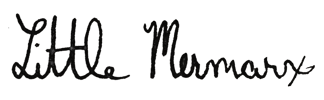
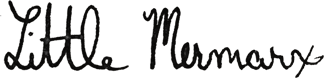
Get the front page headed towards decency

Changed region(s): [[0.0, 0.0, 0.4012, 0.9231], [0.4321, 0.0769, 1.0, 0.9231], [0.8951, 0.9231, 0.9259, 1.0]]

diff --git a/content/themes/existential/style.css b/content/themes/existential/style.css
@@ -1,3 +1,4 @@
+@import url('https://fonts.googleapis.com/css?family=Bitter');
 /*! normalize.css v2.1.3 | MIT License | git.io/normalize */
 /* ==========================================================================
    HTML5 display definitions
@@ -338,37 +339,27 @@ table {
   border-collapse: collapse;
   border-spacing: 0;
 }
+html,
+body {
+  font-family: 'Bitter', serif;
+}
+a {
+  text-decoration: none;
+  color: #bf3524;
+}
 header.main {
   background-color: #f5f2ee;
   border-bottom: 2px solid #ffc70e;
-}
-header.main .container {
-  max-width: 1024px;
-  margin: 0 auto;
-  display: inline-block;
-  /* start commented backslash hack \*/
-  display: block;
-  /* close commented backslash hack */
-}
-header.main .container:after {
-  visibility: hidden;
-  display: block;
-  font-size: 0;
-  content: " ";
-  clear: both;
-  height: 0;
-}
-* html header.main .container {
-  height: 1%;
+  display: flex;
+  align-items: flex-end;
+  padding: 24px;
 }
 header.main h1 {
-  display: block;
-  float: left;
   width: 324px;
-  height: 100px;
+  height: 78px;
+  margin: 0;
   overflow: hidden;
   text-indent: -999px;
-  margin: 0;
   background-image: url(./assets/littleMermarxScript.png);
   background-repeat: no-repeat;
 }
@@ -376,19 +367,45 @@ header.main h1 {
   header.main h1 {
     /* on retina, use image that's scaled by 2 */
     background-image: url(./assets/littleMermarxScript@2x.png);
-    background-size: 324px 100px;
+    background-size: 324px 78px;
   }
 }
 header.main nav {
+  flex: 1;
   text-align: right;
 }
 header.main nav a {
   display: inline-block;
+  color: #bf3524;
   text-decoration: none;
-  padding-top: 60px;
-  padding-right: 18px;
+  padding-left: 24px;
+  padding-top: 40px;
+  padding-bottom: 7px;
 }
-.home article {
-  padding: 24px;
+header.main nav a:before {
+  content: ' ';
+  display: block;
+  position: absolute;
+  width: 100%;
+  height: 4px;
+  background-color: transparent;
+  bottom: 0;
+}
+header.main nav a:hover:before {
+  background-color: #bf3524;
+}
+.home article .post-title {
+  text-align: center;
+}
+.home article .image-container {
+  display: flex;
+  padding-right: 24px;
+}
+.home article .image-container figure {
+  flex: 1;
+  padding-bottom: 30%;
+  margin-left: 24px;
+  background-size: cover;
+  background-position: center;
 }
 /*# sourceMappingURL=style.css.map */

diff --git a/src/less/header.less b/src/less/header.less
@@ -1,30 +1,40 @@
 header.main {
     background-color: @brand-light;
     border-bottom: 2px solid @brand-gold;
-    .container {
-        max-width: 1024px;
-        margin: 0 auto;
-        .clearfix();
-    }
+    display: flex;
+    align-items: flex-end;
+    padding: 24px;
 	h1 {
-        display: block;
-        float: left;
         width: 324px;
-        height: 100px;
+        height: 78px;
+        margin: 0;
         overflow: hidden;
         text-indent: -999px;
-        margin: 0;
-		.image-2x('./assets/littleMermarxScript.png', 324px, 100px);
+		.image-2x('./assets/littleMermarxScript.png', 324px, 78px);
 	}
     nav {
+        flex: 1;
         text-align: right;
         a {
             display: inline-block;
+            color: @brand-red;
             text-decoration: none;
-            padding-top: 60px;
-            padding-right: 18px;
+            padding-left: 24px;
+            padding-top: 40px;
+            padding-bottom: 7px;
+            &:before {
+                content: ' ';
+                display: block;
+                position: absolute;
+                width: 100%;
+                height: 4px;
+                background-color: transparent;
+                bottom: 0;
+            }
+        }
+        a:hover:before {
+            background-color: @brand-red;
         }
     }
 }
-
 

diff --git a/src/less/front-page.less b/src/less/front-page.less
@@ -2,7 +2,20 @@
 
 .home {
     article {
-        padding: 24px;
+        .post-title {
+            text-align: center;
+        }
+        .image-container {
+            display: flex;
+            padding-right: 24px;
+            figure {
+                flex: 1;
+                padding-bottom: 30%;
+                margin-left: 24px;
+                background-size: cover;
+                background-position: center;
+            }
+        }
     }
 }
 

diff --git a/src/less/typography.less b/src/less/typography.less
@@ -1,0 +1,13 @@
+// set the general / global typographic styles
+
+@import url('https://fonts.googleapis.com/css?family=Bitter');
+
+html, body {
+    font-family: 'Bitter', serif;
+}
+
+a {
+    text-decoration: none;
+    color: @brand-red;
+}
+

diff --git a/src/less/main.less b/src/less/main.less
@@ -1,6 +1,7 @@
 @import 'normalize';
 @import 'mixins';
 @import 'colors';
+@import 'typography';
 
 @import 'header';
 

diff --git a/content/themes/existential/front-page.php b/content/themes/existential/front-page.php
@@ -7,14 +7,23 @@
 <?php if (have_posts()): while (have_posts()) : the_post(); ?>
     <article id="post-<?php the_ID(); ?>" <?php post_class('post-snippet'); ?>>
         <h3 class="post-title">
-            <div class="container">
-                <a class="title" href="<?php the_permalink(); ?>" title="<?php the_title(); ?>"><?php the_title(); ?></a>
-                <div class="info"><?php the_first_category_link(); ?><time><?php the_time('M j, Y'); ?></time></div>
-            </div>
+            <a class="title" href="<?php the_permalink(); ?>" title="<?php the_title(); ?>"><?php the_title(); ?></a>
+            <div class="info"><?php the_first_category_link(); ?><time><?php the_time('M j, Y'); ?></time></div>
         </h3>
         <div class="image-container">
-            <?php the_post_image_collage(); ?>
-            <?php edit_post_link(); ?>
+            <?php
+                $media = get_attached_media( 'image', get_the_ID() );
+                $counter = 0;
+                foreach($media as $image) {
+                    if ($counter >= 3) {
+                        break;
+                    }
+                    echo '<figure style="background-image:url(';
+                    echo $image->guid;
+                    echo ')"></figure>';
+                    $counter++;
+                }
+            ?>
         </div>
     </article>
 <?php endwhile; ?>

diff --git a/src/front-page.php b/src/front-page.php
@@ -7,14 +7,23 @@
 <?php if (have_posts()): while (have_posts()) : the_post(); ?>
     <article id="post-<?php the_ID(); ?>" <?php post_class('post-snippet'); ?>>
         <h3 class="post-title">
-            <div class="container">
-                <a class="title" href="<?php the_permalink(); ?>" title="<?php the_title(); ?>"><?php the_title(); ?></a>
-                <div class="info"><?php the_first_category_link(); ?><time><?php the_time('M j, Y'); ?></time></div>
-            </div>
+            <a class="title" href="<?php the_permalink(); ?>" title="<?php the_title(); ?>"><?php the_title(); ?></a>
+            <div class="info"><?php the_first_category_link(); ?><time><?php the_time('M j, Y'); ?></time></div>
         </h3>
         <div class="image-container">
-            <?php the_post_image_collage(); ?>
-            <?php edit_post_link(); ?>
+            <?php
+                $media = get_attached_media( 'image', get_the_ID() );
+                $counter = 0;
+                foreach($media as $image) {
+                    if ($counter >= 3) {
+                        break;
+                    }
+                    echo '<figure style="background-image:url(';
+                    echo $image->guid;
+                    echo ')"></figure>';
+                    $counter++;
+                }
+            ?>
         </div>
     </article>
 <?php endwhile; ?>

diff --git a/content/themes/existential/header.php b/content/themes/existential/header.php
@@ -27,13 +27,11 @@
 	<body <?php body_class(); ?>>
 
 			<header class="main">
-                <div class="container">
-                    <h1><?php bloginfo('name'); ?></h1>
-                    <nav>
-                        <a href="">Animations</a>
-                        <a href="">Drawings</a>
-                        <a href="">About</a>
-                    </nav>
-                </div>
+                <h1><?php bloginfo('name'); ?></h1>
+                <nav>
+                    <a href=""><span>Animations</span></a>
+                    <a href=""><span>Drawings</span></a>
+                    <a href=""><span>About</span></a>
+                </nav>
 			</header>
 

diff --git a/src/header.php b/src/header.php
@@ -27,13 +27,11 @@
 	<body <?php body_class(); ?>>
 
 			<header class="main">
-                <div class="container">
-                    <h1><?php bloginfo('name'); ?></h1>
-                    <nav>
-                        <a href="">Animations</a>
-                        <a href="">Drawings</a>
-                        <a href="">About</a>
-                    </nav>
-                </div>
+                <h1><?php bloginfo('name'); ?></h1>
+                <nav>
+                    <a href=""><span>Animations</span></a>
+                    <a href=""><span>Drawings</span></a>
+                    <a href=""><span>About</span></a>
+                </nav>
 			</header>
 
